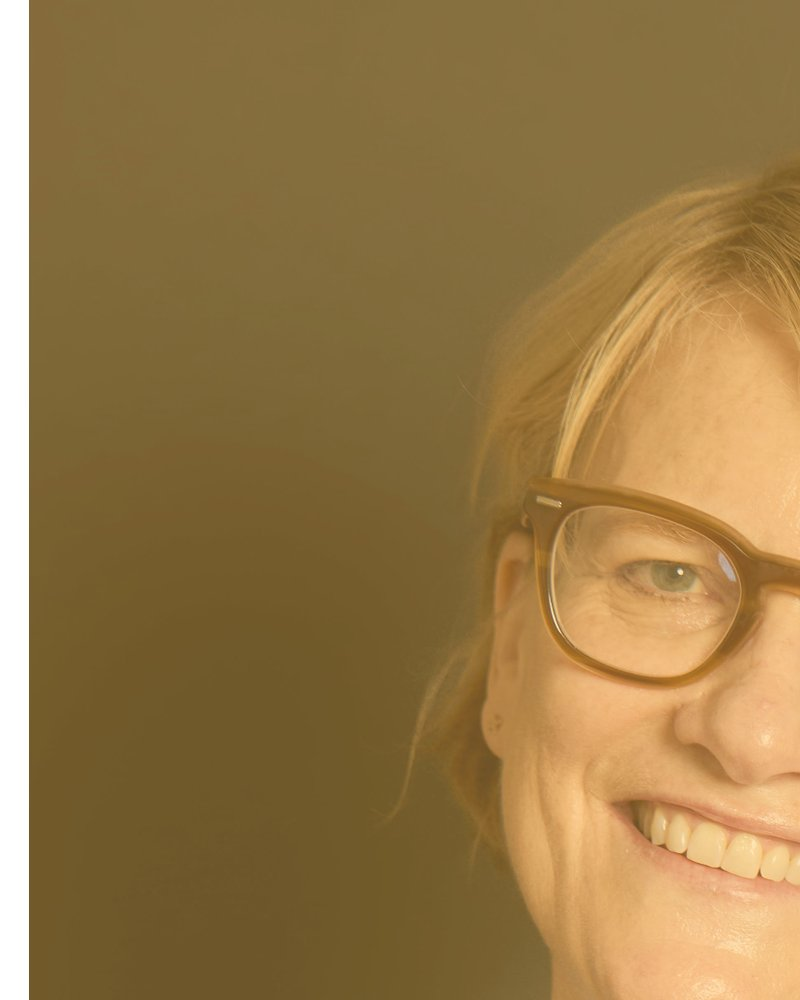
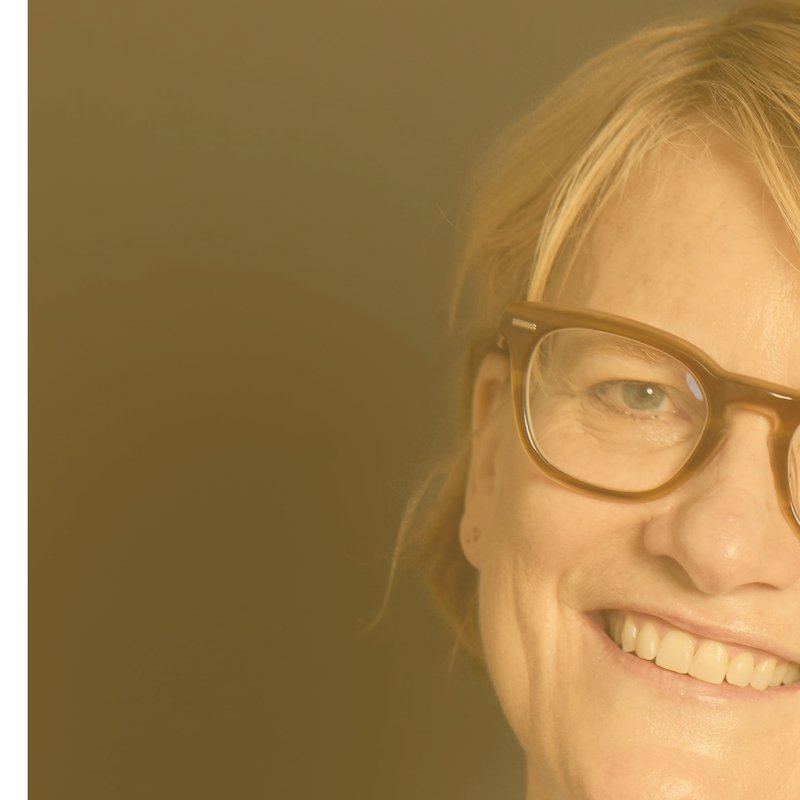
fix: square crop from lower-left, object-position left bottom to show full head

Changed region(s): [[0.5, 0.0, 1.0, 1.0], [0.8125, 0.9688, 0.9062, 1.0], [0.9062, 0.9375, 0.9375, 0.9688]]

diff --git a/about/index.html b/about/index.html
@@ -53,7 +53,7 @@
           <p>People I work with are often navigating the lasting impact of earlier experiences, along with present challenges such as relationship issues, career transitions, and a search for deeper fulfillment. My approach is psychodynamic and relational, grounded in how trauma and unconscious patterns shape emotional life.</p>
         </div>
         <figure class="hero__image" style="margin-top: var(--space-4);">
-          <img src="/assets/images/dawn-eig-portrait.jpg" alt="Dawn Eig, Licensed Psychoanalyst" loading="lazy" width="800" height="1000">
+          <img src="/assets/images/dawn-eig-portrait.jpg" alt="Dawn Eig, Licensed Psychoanalyst" loading="lazy" width="800" height="800">
         </figure>
       </div>
     </section>

diff --git a/index.html b/index.html
@@ -55,7 +55,7 @@
           </div>
         </div>
         <figure class="hero__image">
-          <img src="/assets/images/dawn-eig-portrait.jpg" alt="Dawn Eig, Licensed Psychoanalyst" loading="eager" width="800" height="1000">
+          <img src="/assets/images/dawn-eig-portrait.jpg" alt="Dawn Eig, Licensed Psychoanalyst" loading="eager" width="800" height="800">
         </figure>
       </div>
     </section>

diff --git a/css/pages.css b/css/pages.css
@@ -53,8 +53,9 @@
 
 .hero__image img {
   width: 100%;
-  aspect-ratio: 4 / 5;
+  aspect-ratio: 1 / 1;
   object-fit: cover;
+  object-position: left bottom;
 }
 
 @media (min-width: 48rem) {
